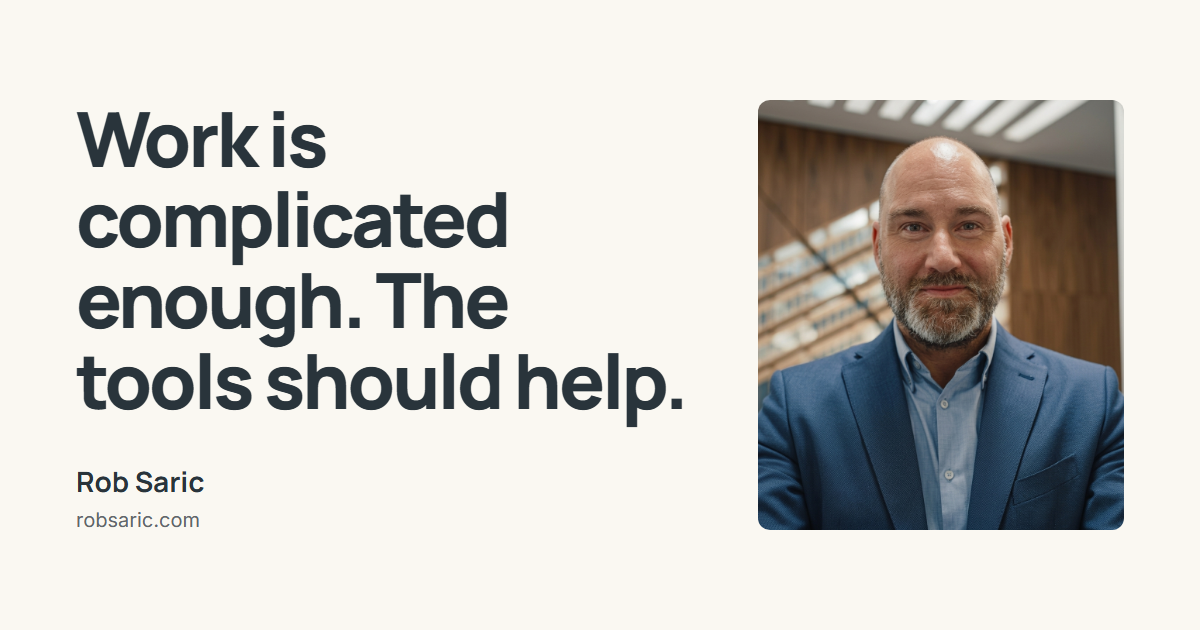
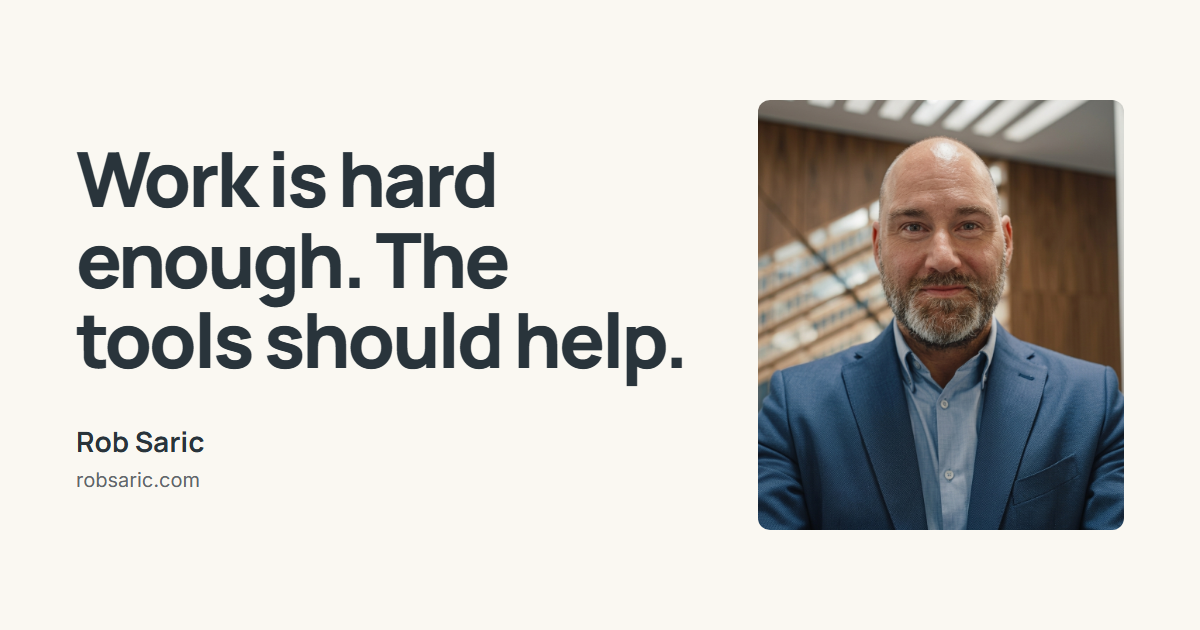
Use a more direct homepage headline

Changed region(s): [[0.0617, 0.181, 0.5858, 0.7238], [0.0617, 0.8143, 0.185, 0.8444], [0.0617, 0.754, 0.185, 0.7841]]

diff --git a/src/data/ui.ts b/src/data/ui.ts
@@ -2,7 +2,7 @@ export const UI = {
   editorialReview: 'Design preview · Includes two proposed essays, awaiting Rob’s review.',
   meta: {
     titleSeparator: ' · ',
-    ogImageAlt: 'Rob Saric: Work is complicated enough. The tools should help.',
+    ogImageAlt: 'Rob Saric: Work is hard enough. The tools should help.',
     /** Alt for a note's generated share card; type is the note's own. */
     noteOgImageAlt: (type: string, title: string) => `${type}: ${title}`,
   },

diff --git a/src/data/editorial.ts b/src/data/editorial.ts
@@ -2,7 +2,7 @@
 export const EDITORIAL = {
   hero: {
     identity: 'Founder · Writer · Ottawa',
-    heading: 'Work is complicated enough.',
+    heading: 'Work is hard enough.',
     emphasis: 'The tools should help.',
     lead: 'I build software for small teams and write about better work, useful AI, and what’s worth keeping human.',
     promise: 'The goal isn’t to fit more work into life. It’s to make more room for life outside it.',

diff --git a/src/data/site.ts b/src/data/site.ts
@@ -5,7 +5,7 @@
  */
 export const SITE = {
   name: 'Rob Saric',
-  title: 'Rob Saric · Work is complicated enough. The tools should help.',
+  title: 'Rob Saric · Work is hard enough. The tools should help.',
   description:
     'Rob Saric on building useful tools for small teams, starting companies, and making room for life beyond the screen. Founder and dad in Ottawa.',
   url: 'https://robsaric.com',

diff --git a/docs/REDESIGN-HANDOFF.md b/docs/REDESIGN-HANDOFF.md
@@ -4,7 +4,7 @@ Prepared 2026-10-18; refined 2026-10-19 for Rob Saric. Repository: `robsaric/rob
 
 ## Result
 
-The homepage now leads with “Work is complicated enough. The tools should help.” Rob approved applying a supplied homepage critique on 2026-10-19 and then explicitly selected a warm background, blue accents, and the unbranded portrait. The smaller rectangular photo makes room for three real writing selections under “Start here.” Primary action leads to those selections; secondary action leads to current work. The supporting copy connects better tools to more room for life.
+The homepage now leads with “Work is hard enough. The tools should help.” Rob approved applying a supplied homepage critique on 2026-10-19 and then explicitly selected a warm background, blue accents, and the unbranded portrait. The smaller rectangular photo makes room for three real writing selections under “Start here.” Primary action leads to those selections; secondary action leads to current work. The supporting copy connects better tools to more room for life.
 
 The dedicated `/building/` page leads with “More people should get to build something of their own.” It connects opportunity, ownership and independence to Rob’s already-public personal history, Togetheren, developing SkillNav and Caretrics. The homepage sequence is introduction, writing, conditional email signup, a short mission invitation, and a personal introduction. Navigation and the hero work link go directly to the new page. LinkedIn remains in navigation and footer and is the new page’s closing primary action. No email form appears without a configured endpoint, and no cadence or new service is promised.
 
@@ -37,6 +37,12 @@ No dependencies, package version, lockfile, backend newsletter handler, tracking
 
 ## Validation
 
+### October 19 final headline and push preparation
+
+- Chose “Work is hard enough. The tools should help.” after Rob asked for the stronger wording and authorized pushing. Updated the homepage, page title, share-card text/alt, generated site card and current documentation together.
+- Refreshed editorial preview and opened the homepage in the default browser. Inspected the final homepage at 1440, 900 and 390px and the generated sharing image. Heading, loaded images, first writing selection, keyboard focus, reduced motion and no-JavaScript reading links pass. Evidence: `.impeccable/review/home-headline/`.
+- Final ordinary `corepack pnpm@10.27.0 gate` passed: zero Astro/copy errors, 112 redirects, 11 notes and 84 layout checks. Existing 25 Astro hints and three copy taste warnings remain. The last build is ordinary production.
+- GitHub main contains no newer commits than the redesign base. Push destination is the separate `codex/personal-site-redesign` branch in `robsaric/robsaric.com`, with a review PR against main. The two essays remain drafts; no newsletter configuration, subscriber write or direct production deploy is part of this push.
 ### October 19 homepage copy refinement
 
 - User supplied a Perplexity critique as a copy reference and explicitly rejected its styling. Kept the existing visual composition, portrait, dark headline, button shapes and two-action hierarchy; the building page is unchanged.
@@ -107,7 +113,7 @@ Review evidence and scripts live locally in `.impeccable/review/` and are intent
 
 ## Release boundary
 
-All implementation is in the isolated redesign checkout. No remote push, merge, production deployment, newsletter submission, or social publishing occurred. The source checkout was not edited by this work.
+All implementation is in the isolated redesign checkout. Rob authorized the GitHub redesign-branch push on October 19; the earlier validation entries record the local-only state before that authorization. Merge, direct production deployment, newsletter submission and social publishing are outside this push. The source checkout was not edited by this work.
 
 Before an authorized release, review the two essay drafts, inspect the preview on Rob's own phone, and confirm the hosting environment's newsletter configuration. Run the ordinary `pnpm gate` last: the Vercel adapter writes its deployment output during both ordinary and review builds. The final validated output for this handoff is the ordinary production build.
 

diff --git a/docs/AUDIENCE-AND-PUBLISHING.md b/docs/AUDIENCE-AND-PUBLISHING.md
@@ -8,7 +8,7 @@ The previous writing page repeated its heading, hid the actual article titles be
 
 The redesign makes the point of view explicit, shows readable titles and dates, brings wider writing into the journey, and gives readers relevant next reads and a clear invitation to follow. Existing article bodies and the 2009–2019 archive remain untouched.
 
-The October 19 homepage revision leads with “Work is complicated enough. The tools should help.” Its reader promise connects better tools to more room for life. Three real dated selections appear under “Start here,” ahead of projects and biography. In the review build the two proposed essays lead; ordinary production uses published archive selections. Rob chose a warm background, blue accents and an unbranded rectangular portrait. Email remains conditional on a configured service; reading is the primary action. The supplied “Creed” example informs the point-of-view framing, without adopting its clinic-specific wording or assuming an opt-in or loyalty advantage.
+The October 19 homepage revision leads with “Work is hard enough. The tools should help.” Its reader promise connects better tools to more room for life. Three real dated selections appear under “Start here,” ahead of projects and biography. In the review build the two proposed essays lead; ordinary production uses published archive selections. Rob chose a warm background, blue accents and an unbranded rectangular portrait. Email remains conditional on a configured service; reading is the primary action. The supplied “Creed” example informs the point-of-view framing, without adopting its clinic-specific wording or assuming an opt-in or loyalty advantage.
 
 Two new proposed essays are included in the local preview. They express the views Rob gave during this conversation; they do not invent customer stories or private family scenes. Review these as Rob's first-person writing before any public release:
 - A small team shouldn’t need a department for everything

diff --git a/docs/personal-site-direction.md b/docs/personal-site-direction.md
@@ -57,3 +57,7 @@ Rob supplied a Perplexity critique and screenshot, explicitly saying he disliked
 Use “Founder · Writer · Ottawa” and the tighter introduction: “I build software for small teams and write about better work, useful AI, and what’s worth keeping human.” Preserve the exact existing promise about making more room for life outside work. Give that promise charcoal text and medium weight while keeping its current scale and spacing.
 
 The existing conditional signup follows the writing selections. Label it “Get my notes” when configured. The local review checkout has no newsletter endpoint or provider credentials; it does not show a working signup. Production configuration is unverified. This refinement adds no publishing cadence, provider setup or subscriber writes.
+
+## October 19 push preparation
+
+Rob asked to choose between “Work is complicated enough” and “Work is hard enough” and authorized pushing the changes. Use “Work is hard enough. The tools should help.” for the more direct, human opening, keeping the visual treatment and supporting copy. Match the page title and sharing image to it. Push the redesign branch for review; preserve both essays as drafts and the conditional newsletter behavior.
